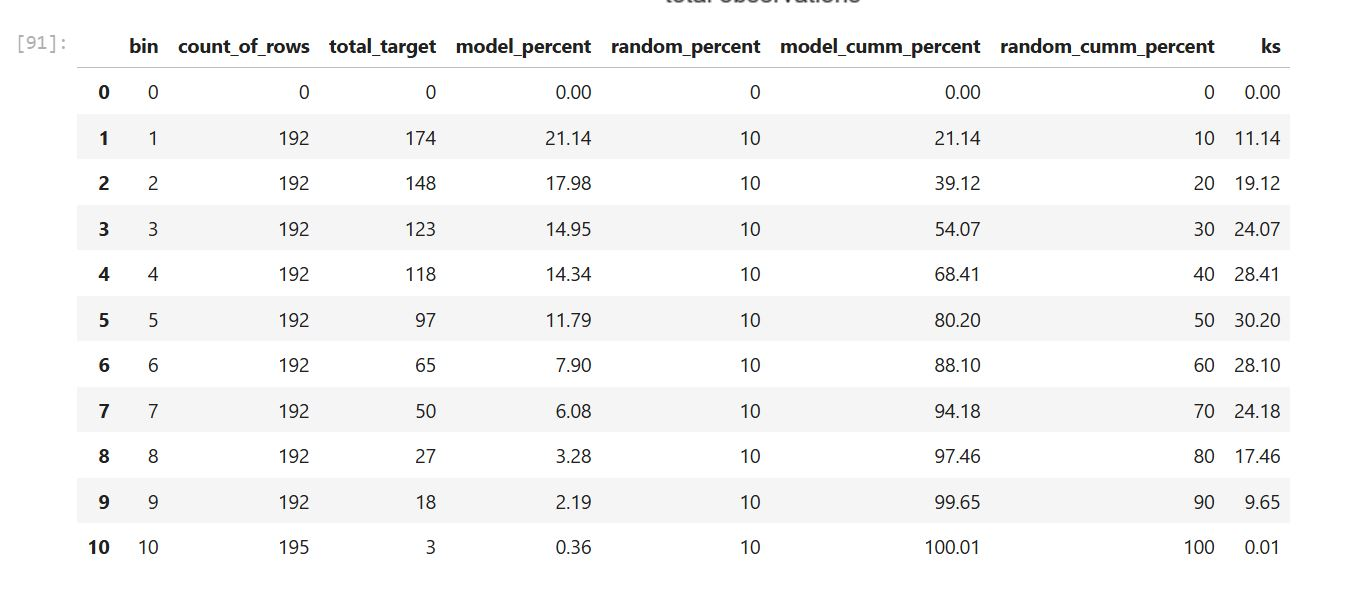
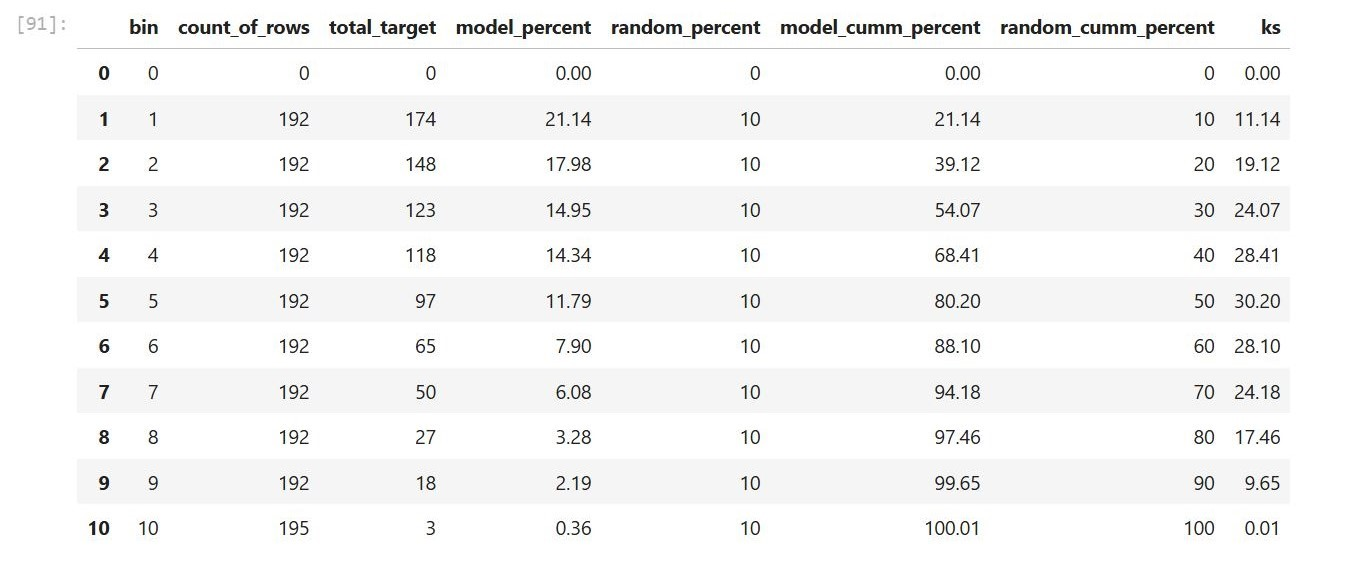
Updated CAP Curve Image in ReadMe

diff --git a/README.md b/README.md
@@ -42,7 +42,7 @@ The analysis reveals that customer reviews do have predictive power to predict c
 
 ## **Insights Deep Dive**
 
-![CAP Curve](./ReadMe_Images/CAP.JPG)
+![CAP Curve](./ReadMe_Images/CAP.png)
 
 ### **Cumulative Accuracy Profile (CAP) Insights**
 
